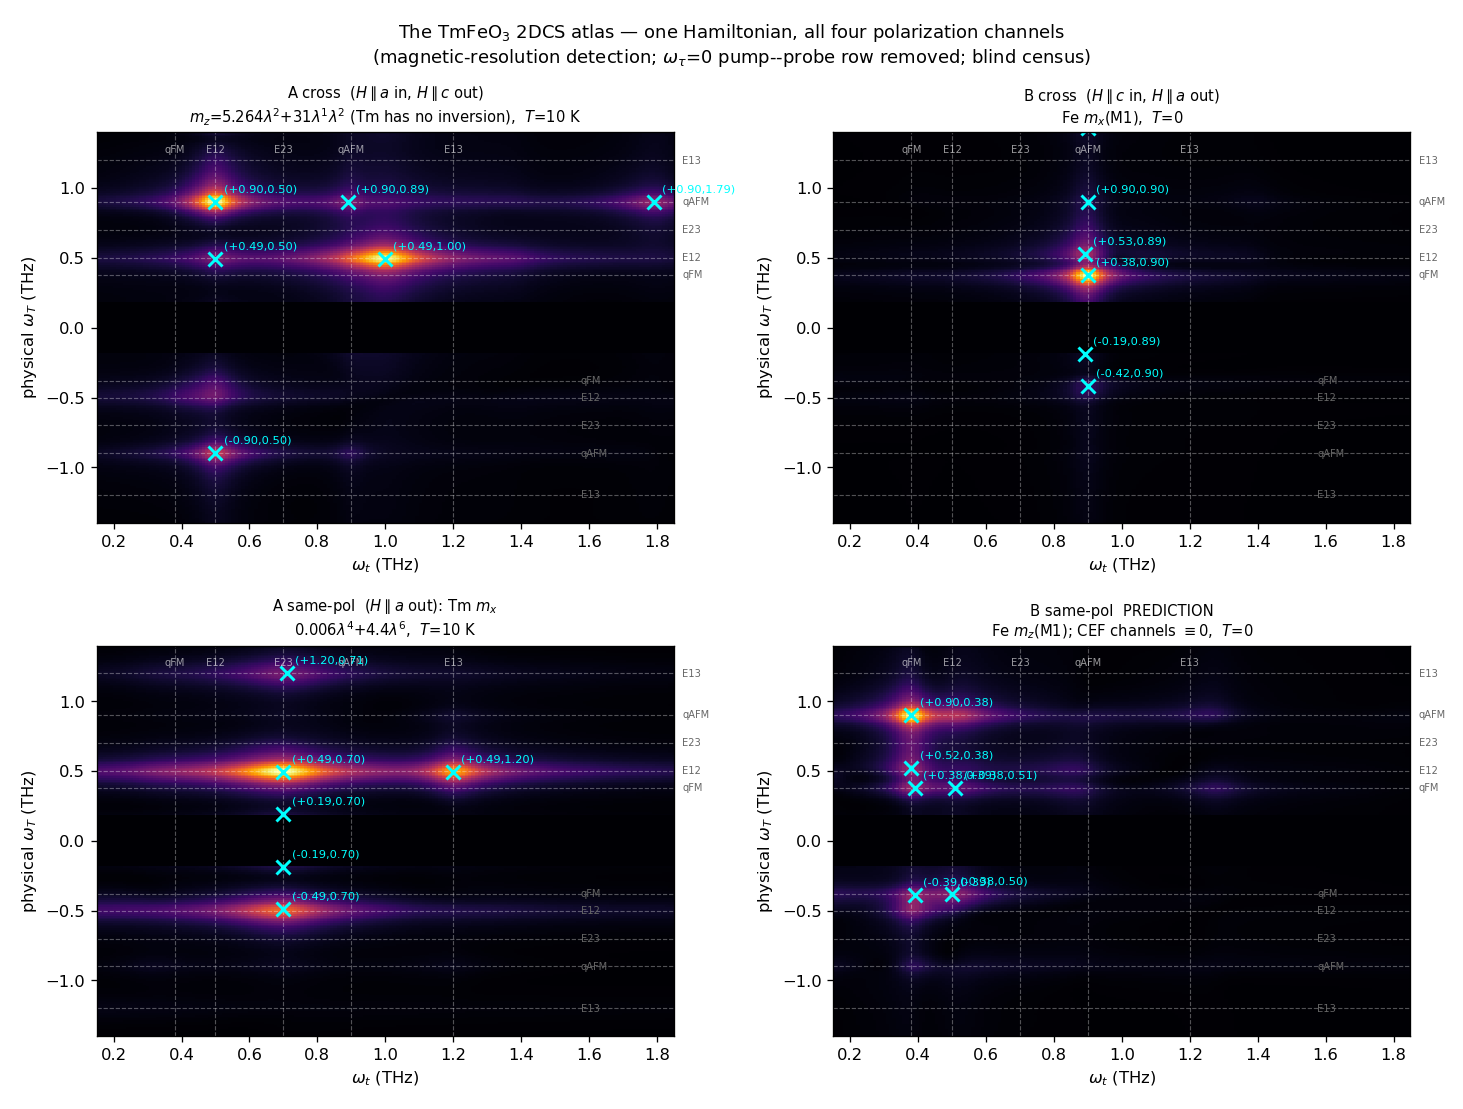
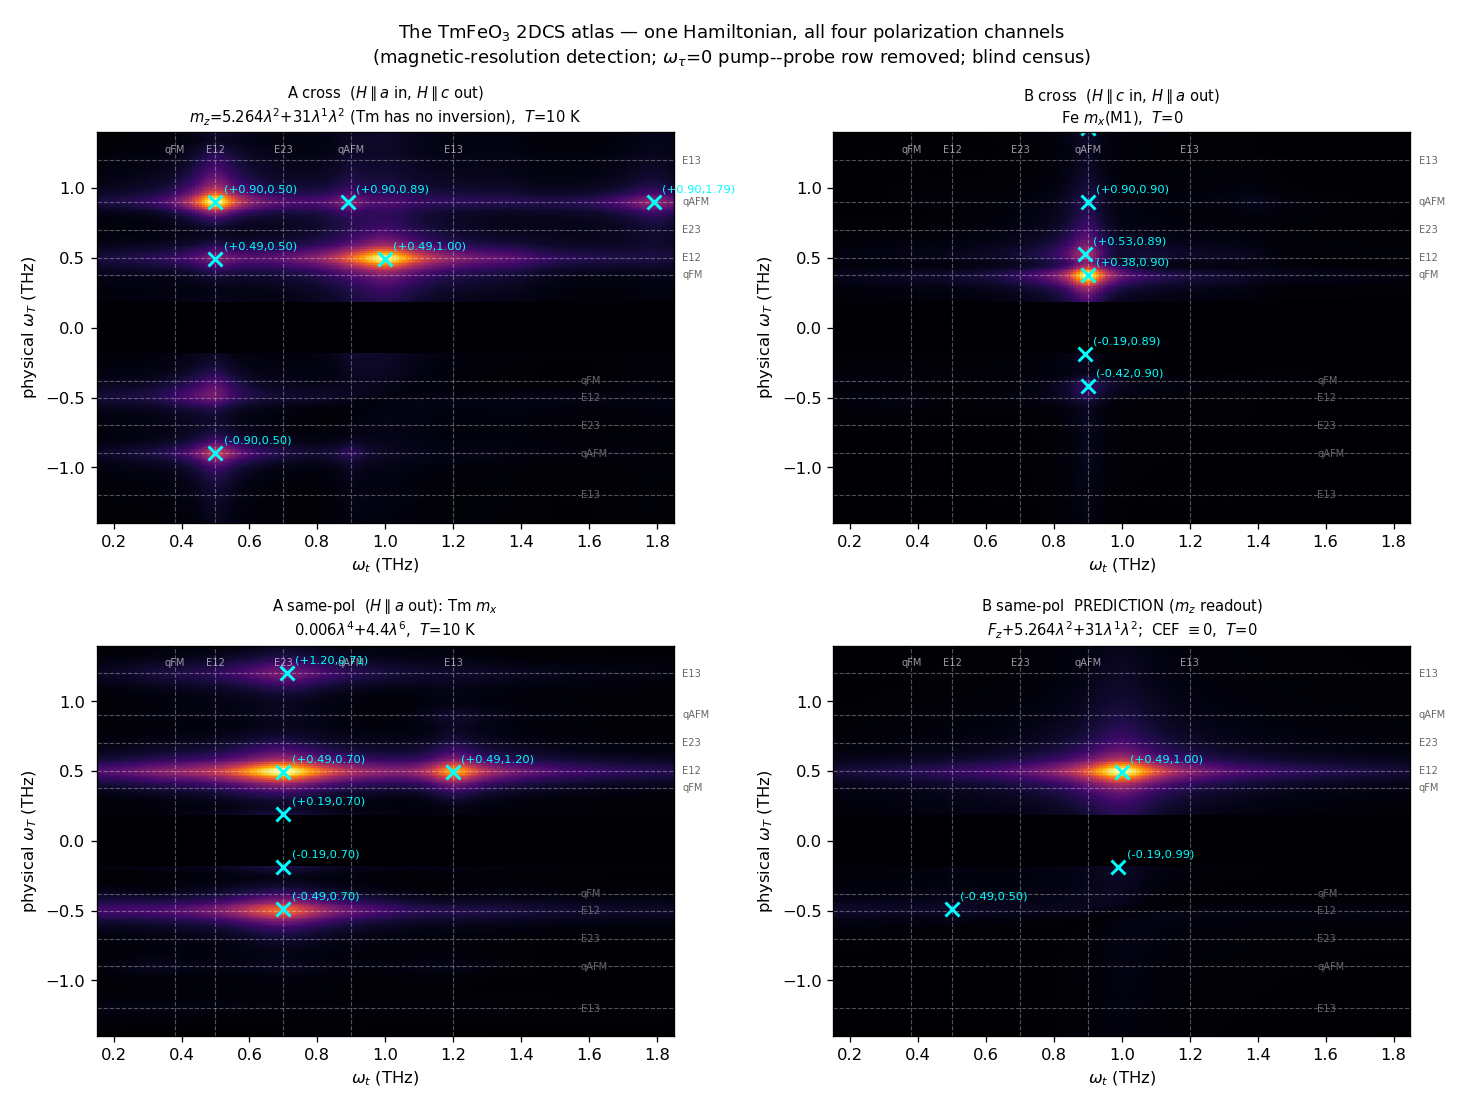
Atlas B same-pol panel corrected to the full m_z operator
That panel still used Fe F_z alone, but the c-directed field drives the Tm
lambda2 directly through mu^z_12 = 5.264, making the Tm signal ~50x the Fe
contribution (established when the B same-pol prediction was corrected in the
SI). With the full operator F_z + 5.264*l2 + 37.1*l1l2 the channel collapses to
a single peak at (E12,2E12)=(0.49,1.00), everything else <=0.07 — the beta
meter described in the SI. Figure and census json now agree with the text.

Changed region(s): [[0.5537, 0.5212, 0.9843, 0.7358], [0.5537, 0.7665, 0.7075, 0.8891], [0.7382, 0.7665, 0.7997, 0.7971]]

diff --git a/tfo_project/paper/scripts/atlas_final.py b/tfo_project/paper/scripts/atlas_final.py
@@ -56,7 +56,7 @@ panels=[]
 wtb,wTb,a=mix(A2,"SU3",1,10); _,_,b=mix(A2,"SU2",2,10)
 # quadratic (hyperpolarizability) emission, allowed because Tm 4c lacks inversion:
 # m_z  =  mu*lambda2  +  beta*lambda1*lambda2   -> emits at 2*E12
-def quad(runs,T):
+def quad(runs,T):  # quadratic (hyperpolarisability) channel
     ws=np.array([1.,0,0]) if T<=0 else np.array([np.exp(-e/(T*0.086173)) for e in E]); ws=ws/ws.sum()
     tot=None
     for w,r in zip(ws,runs):
@@ -82,8 +82,9 @@ panels.append(("B cross  ($H\\parallel c$ in, $H\\parallel a$ out)\nFe $m_x$(M1)
 wtb,wTb,f4=mix(S,"SU3",3,10,True); _,_,f6=mix(S,"SU3",5,10,True)
 panels.append(("A same-pol  ($H\\parallel a$ out): Tm $m_x$\n0.006$\\lambda^4$+4.4$\\lambda^6$,  $T$=10 K",wtb,wTb,0.006*f4+4.4*f6,"A_same"))
 # 4. B same-pol PREDICTION: detect m_z (CEF channels are machine-zero here)
-wtb,wTb,g_=mix(B,"SU2",2,0)
-panels.append(("B same-pol  PREDICTION\nFe $m_z$(M1); CEF channels $\\equiv$0,  $T$=0",wtb,wTb,g_,"B_same_pred"))
+wtb,wTb,g_=mix(B,"SU2",2,0); _,_,bl2=mix(B,"SU3",1,0); _,_,bq=quad(B,0)
+panels.append(("B same-pol  PREDICTION ($m_z$ readout)\n$F_z$+5.264$\\lambda^2$+%.0f$\\lambda^1\\lambda^2$;  CEF $\\equiv$0,  $T$=0"%beta,
+               wtb,wTb,g_+5.264*bl2+beta*bq,"B_same_pred"))
 census={"beta_note":"m_z = 5.264*l2 + beta*l1*l2, beta from observed parity","drive":"A_Fe=0.12 tied su3=0.02195, dark-mu13","mu13_admixture_pct":0.14}
 fig,axs=plt.subplots(2,2,figsize=(12.4,9.4))
 for ax,(ttl,wtb,wTb,A,key) in zip(axs.ravel(),panels):
